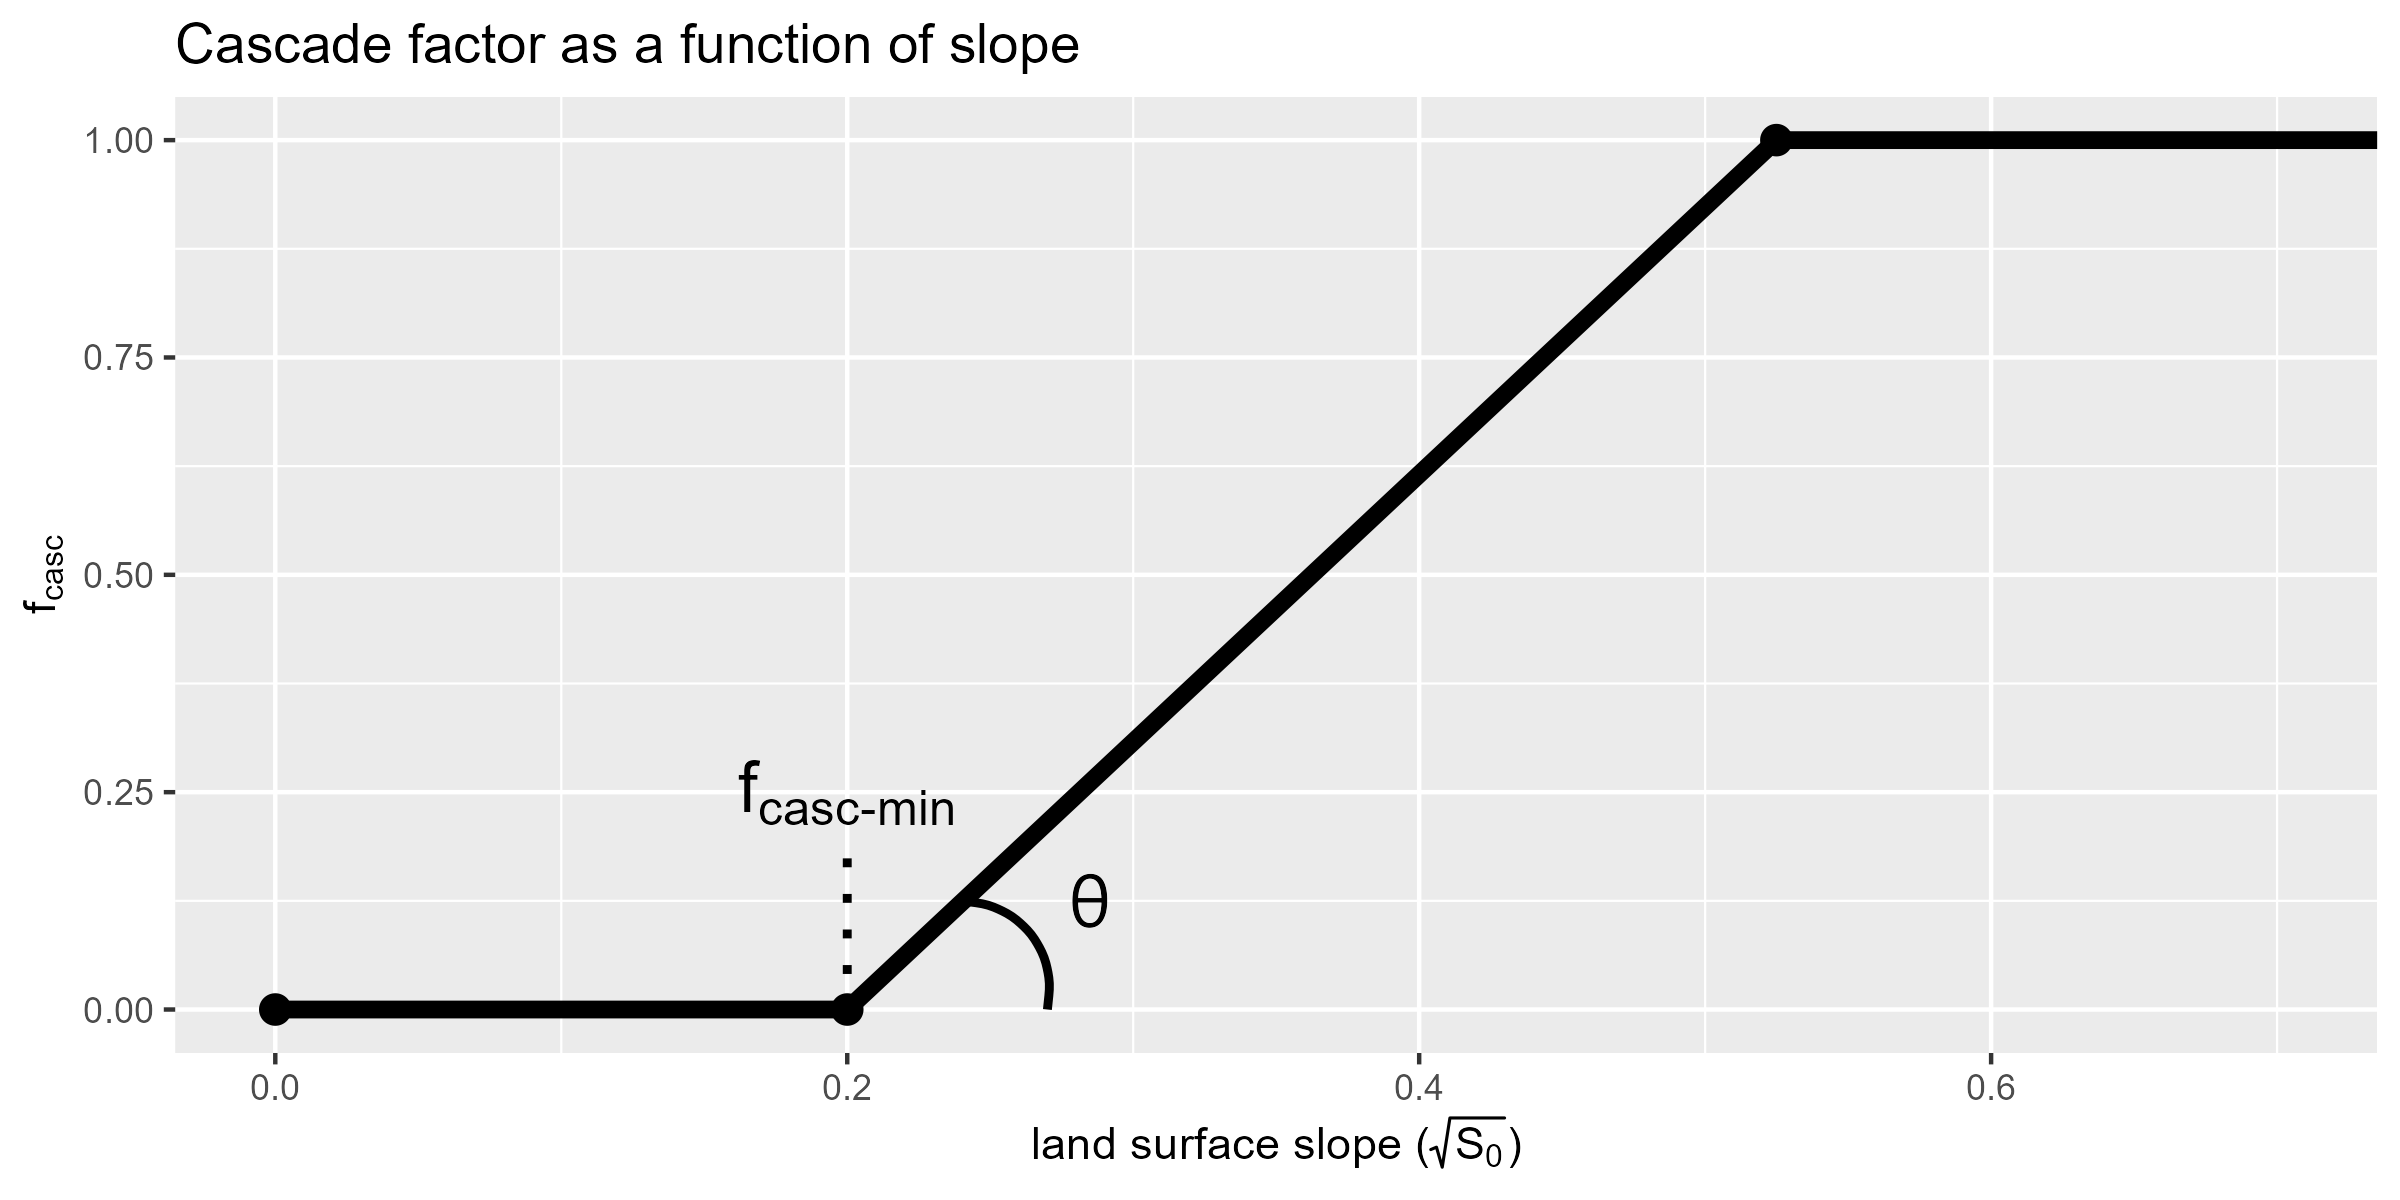
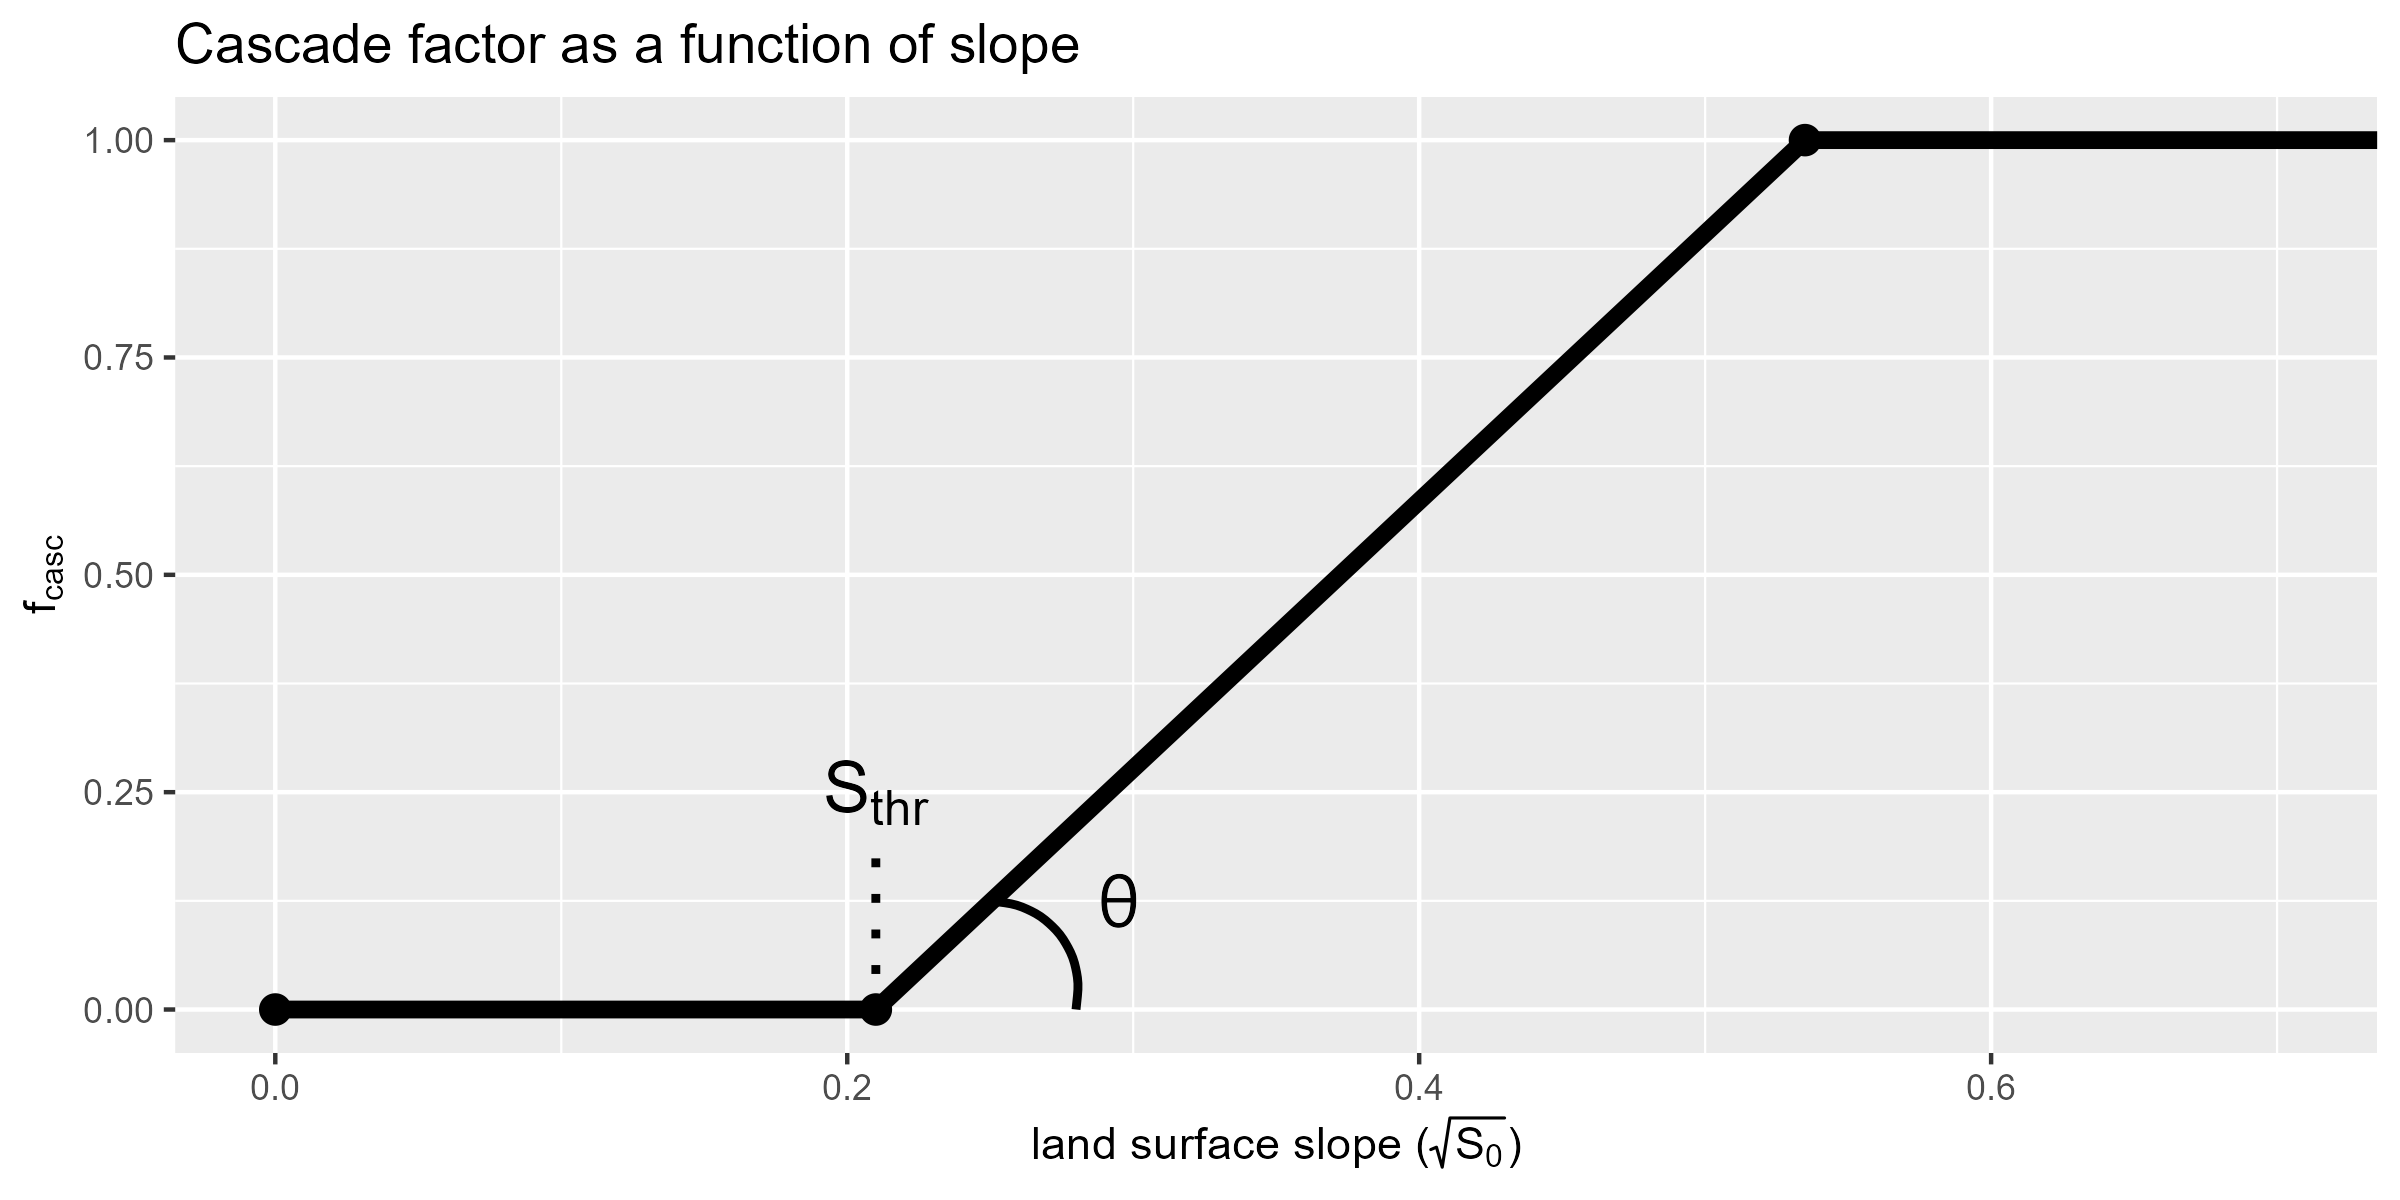
added threshold method

Changed region(s): [[0.3125, 0.0925, 0.75, 0.8633]]

diff --git a/modelling/waterbudget/overlandflow.md b/modelling/waterbudget/overlandflow.md
@@ -55,7 +55,7 @@ The cascade factor $(F_\text{casc})$ is assumed related to land surface slope us
 
 ### Gaussian method
 
-Here, $F_\text{casc}$ is assumed to be related to slope given exponential relationship:
+Here, $F_\text{casc}$ is assumed to be related to slope given the exponential relationship:
 
 $$
   F_\text{casc}=1-\exp\left(\frac{S_0^2}{-\alpha}\right),
@@ -77,8 +77,34 @@ where $\beta$ is land surface gradient, $r$ is called the "range" (note that the
 
 *$F_\text{casc}$ is assigned as a function of slope. Above shows the affect of varying $\alpha$ within the range of gradients found local to the ORMGP (see histogram below).*
 
+<br>
+
+
+
+### Threshold method
+
+Here, $F_\text{casc}$ is assumed to be related to slope given the piecewise function:
+
+$$
+  F_\text{casc}=
+  \begin{cases}
+    0 \qquad & 0\leq \sqrt{S_0}\leq S_\text{thr}\\
+    (\sqrt{S_0}-S_\text{thr})\cdot\tan{\theta} & S_\text{thr}\lt \sqrt{S_0}\lt S_\text{thr} + \tan^{-1}{\theta}\\
+    1 & \text{otherwise} 
+  \end{cases}
+$$
+
+Where $S_\text{thr}$ is the *threshold* surface gradient when runoff occurs and $\theta$ is a scaling parameter $[0,\pi/2]$.
 
 <br>
+
+![](../fig/rdrr-fcasc-2.png)
+
+*$F_\text{casc}$ is assigned as a function of slope threshold $S_\text{thr}$ and scaling parameter $\theta$.*
+
+
+<br>
+
 
 ## Constraining $F_\text{casc}$
 
@@ -123,12 +149,12 @@ The $D8$ algorithm produces a dendritic network of overland flow paths whose rat
 - stream cells: $F_\text{casc}=1$
 - urban cells: $F_\text{casc}=1$ (assumes serviced areas)
 <!-- - all else $F_\text{casc}=1-\exp\left(\frac{\tan^2\beta}{-\alpha}\right)$,  where $\tan\beta$ is the local surface slope. -->
-- all else $F_\text{casc}=1-\exp\left(\frac{S_0^2}{-\alpha}\right)$,  where $S_0$ is the local surface slope.
+<!-- - all else $F_\text{casc}=1-\exp\left(\frac{S_0^2}{-\alpha}\right)$,  where $S_0$ is the local surface slope. -->
+- all else $F_\text{casc}\alpha\sqrt{S_0}$,  where $S_0$ is the local surface slope.
 
+<br>
 
-
-
-![](../fig/rdrr-beta-1.png)
+![](../fig/rdrr-fcasc-2-histo.png)
 
 *When comparing the distribution of land surface gradient to a calibrated cascade factor function it's apparent that lateral movement of overland flow is not a dominant process for most of the landscape.*
 
